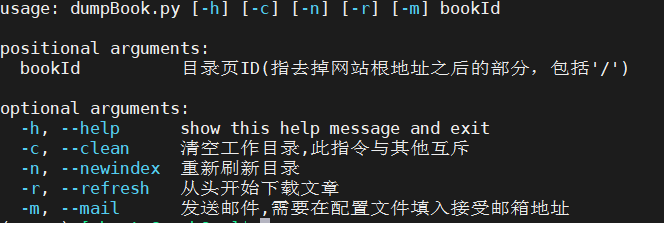
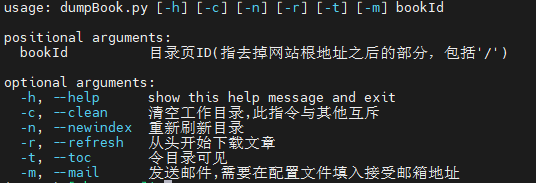
tune toc

Changed region(s): [[0.0, 0.0, 1.0, 1.0], [0.0, 0.1639, 0.9552, 0.3552], [0.0, 0.0, 0.8358, 0.082]]

diff --git a/genepub.py b/genepub.py
@@ -19,14 +19,18 @@ def sortHtmlfromJson(fpath):
     res = res + "<div>" + ccontent['content']+ "</div>" 
     return [res, ccontent]
 
-def genHtml(fpath):
+def genHtml(fpath,args):
     cfg={}
     with open(fpath+'/../bookinfo') as f:
         cfg = json.load(f)
     # Index Page prepration
     indres = "<html lang='zh'><head><style> \
-            <meta charset='utf-8'> \
-            </style></head><body><div id='index-page' display='none'>"
+            <meta charset='utf-8'>"
+
+    if(args.toc):
+        indres = indres + "</style></head><body><div id='index-page' style='display:block!important'><h1>全书目录</h1><ul>"
+    else:
+        indres = indres + "</style></head><body><div id='index-page' style='display:none!important'><h1>全书目录</h1><ul>"
 
     # Sorting all existed files
     for c in [_ for _ in sorted(os.listdir(fpath)) if _.endswith('json') ]:
@@ -45,13 +49,13 @@ def genHtml(fpath):
             fp.write(singlec)
             fp.flush()
         # Prepare index and link
-        indres = indres + "<a href='"+c+".html'>"+res[1]["title"]+"</a>"
+        indres = indres + "<li><a href='"+c+".html'>"+res[1]["title"]+"</a></li>"
 
 
         ### Single File style
         #indres = indres + res[0]
 
-    indres = indres + "</div></body></html>"
+    indres = indres + "</ul></div></body></html>"
     
     with open(r'%s/index.html'%(fpath), 'w') as fp:
         fp.write(indres)
@@ -106,7 +110,7 @@ def genCover(fpath,cfg, binfo):
 
 def genEpubfromHtml(fpath,cfg,args):
     # Gen Html
-    genHtml(fpath+'/dumps/')
+    genHtml(fpath+'/dumps/',args)
 
 
     # Got book info
